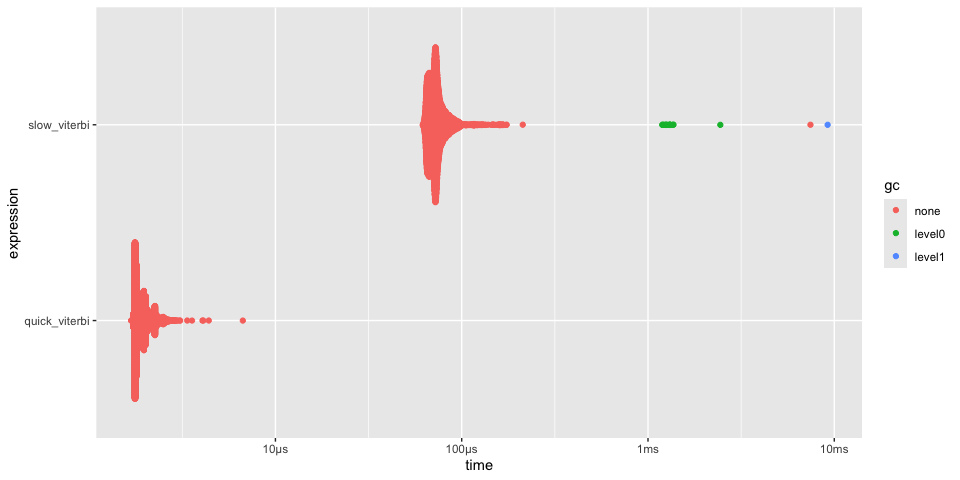
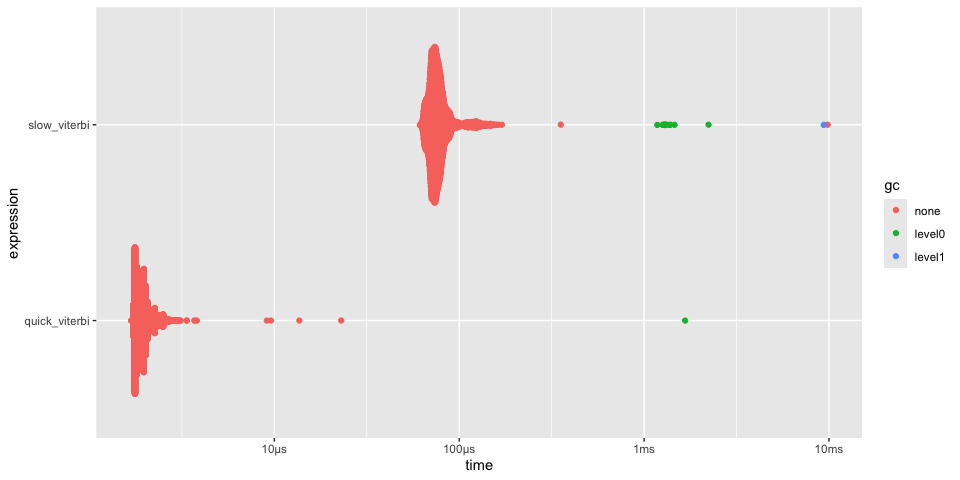
render readme

diff --git a/README.md b/README.md
@@ -140,9 +140,9 @@ timings
 #> # A tibble: 3 × 6
 #>   expression      min   median `itr/sec` mem_alloc `gc/sec`
 #>   <bch:expr> <bch:tm> <bch:tm>     <dbl> <bch:byt>    <dbl>
-#> 1 r             480ms 484.06ms      2.07     782KB     3.10
-#> 2 quickr        912µs   1.05ms    947.       782KB    17.7 
-#> 3 c             918µs   1.05ms    945.       782KB    17.6
+#> 1 r             483ms 485.62ms      2.06     782KB     3.09
+#> 2 quickr        943µs   1.07ms    938.       782KB    17.6 
+#> 3 c             936µs   1.07ms    932.       782KB    17.5
 plot(timings) + bench::scale_x_bench_time(base = NULL)
 ```
 
@@ -301,8 +301,8 @@ timings
 #> # A tibble: 2 × 6
 #>   expression         min   median `itr/sec` mem_alloc `gc/sec`
 #>   <bch:expr>    <bch:tm> <bch:tm>     <dbl> <bch:byt>    <dbl>
-#> 1 slow_viterbi   61.83µs     72µs    13359.    1.59KB     29.6
-#> 2 quick_viterbi   1.68µs   1.84µs   514906.        0B      0
+#> 1 slow_viterbi    61.3µs   74.7µs    12631.    1.59KB     27.4
+#> 2 quick_viterbi   1.68µs   1.89µs   511508.        0B     51.2
 plot(timings)
 ```
 
@@ -393,8 +393,8 @@ summary(timings, relative = TRUE)
 #> # A tibble: 2 × 6
 #>   expression           min median `itr/sec` mem_alloc `gc/sec`
 #>   <bch:expr>         <dbl>  <dbl>     <dbl>     <dbl>    <dbl>
-#> 1 diffuse_heat        10.5   13.7      1        4893.      Inf
-#> 2 quick_diffuse_heat   1      1        8.32        1       NaN
+#> 1 diffuse_heat        5.28   6.30      1        4893.      Inf
+#> 2 quick_diffuse_heat  1      1         5.31        1       NaN
 plot(timings)
 ```
 
@@ -440,9 +440,9 @@ timings
 #> # A tibble: 3 × 6
 #>   expression      min   median `itr/sec` mem_alloc `gc/sec`
 #>   <bch:expr> <bch:tm> <bch:tm>     <dbl> <bch:byt>    <dbl>
-#> 1 r           74.09ms  81.72ms      9.54  124.24MB    24.8 
-#> 2 rcpp         5.64ms   6.21ms    162.      4.46MB     0   
-#> 3 quickr       2.15ms    2.2ms    447.    781.35KB     3.99
+#> 1 r            68.3ms  70.32ms      9.62  124.24MB    15.4 
+#> 2 rcpp         5.88ms   6.13ms    160.      4.46MB     1.98
+#> 3 quickr       2.15ms   2.27ms    434.    781.35KB     3.98
 
 timings$expression <- factor(names(timings$expression), rev(names(timings$expression)))
 plot(timings) + bench::scale_x_bench_time(base = NULL)
@@ -558,10 +558,10 @@ timings
 #> # A tibble: 4 × 6
 #>   expression         min   median `itr/sec` mem_alloc `gc/sec`
 #>   <bch:expr>    <bch:tm> <bch:tm>     <dbl> <bch:byt>    <dbl>
-#> 1 R: lm()        10.93ms  11.92ms      84.5    29.2MB     117.
-#> 2 R: lm.fit()     1.44ms   1.66ms     591.     13.7MB     149.
-#> 3 quickr          1.77ms   2.05ms     476.         0B       0 
-#> 4 RcppArmadillo   1.65ms   1.89ms     515.         0B       0
+#> 1 R: lm()        11.53ms  11.79ms      83.7    29.2MB     116.
+#> 2 R: lm.fit()      1.4ms   1.75ms     568.     13.7MB     176.
+#> 3 quickr        934.43µs   1.09ms     916.         0B       0 
+#> 4 RcppArmadillo   1.71ms    1.9ms     512.         0B       0
 plot(timings)
 ```
 
